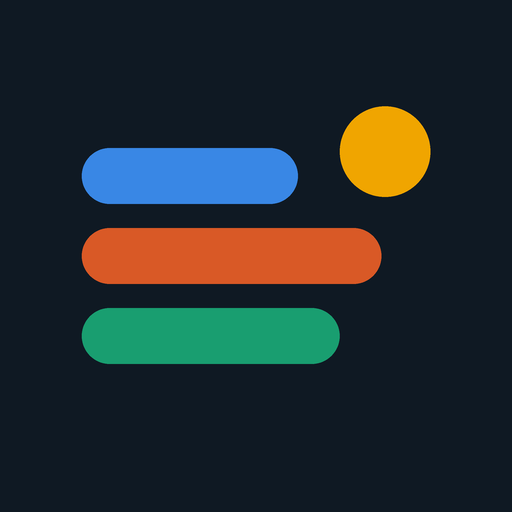
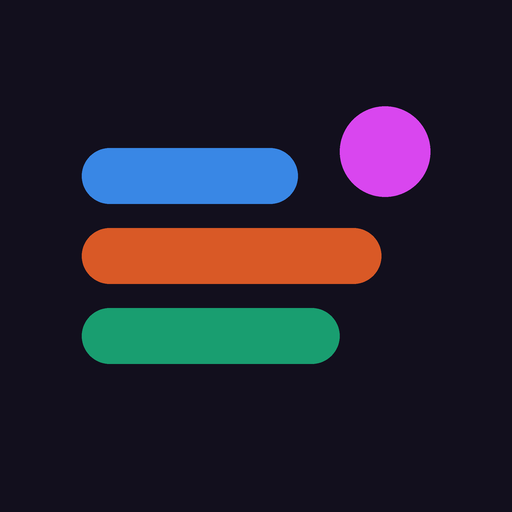
Rename to My Triathlon and switch to a violet / fuchsia theme
New background, accent colors, fonts and app icons so it no longer looks like Voyager.
Sport colors unchanged (re-checked for color-blind safety on the new background).

Claude-Session: https://claude.ai/code/session_01VnQkoeRu5t3mpL7ouk737S

Changed region(s): [[0.6562, 0.1875, 0.8438, 0.4062]]

diff --git a/index.html b/index.html
@@ -3,23 +3,23 @@
 <head>
 <meta charset="UTF-8">
 <meta name="viewport" content="width=device-width, initial-scale=1.0, maximum-scale=1.0, user-scalable=no">
-<title>Tri Expenses</title>
-<link href="https://fonts.googleapis.com/css2?family=Syne:wght@700;800&family=DM+Sans:wght@400;500;700&display=swap" rel="stylesheet">
+<title>My Triathlon</title>
+<link href="https://fonts.googleapis.com/css2?family=Space+Grotesk:wght@600;700&family=Manrope:wght@400;500;700;800&display=swap" rel="stylesheet">
 <link rel="manifest" href="manifest.json">
 <link rel="apple-touch-icon" href="icons/apple-touch-icon.png">
-<meta name="theme-color" content="#0f1923">
+<meta name="theme-color" content="#120f1d">
 <meta name="mobile-web-app-capable" content="yes">
 <meta name="apple-mobile-web-app-capable" content="yes">
 <meta name="apple-mobile-web-app-status-bar-style" content="black-translucent">
-<meta name="apple-mobile-web-app-title" content="Tri Expenses">
+<meta name="apple-mobile-web-app-title" content="My Triathlon">
 <style>
 *{box-sizing:border-box;margin:0;padding:0;-webkit-tap-highlight-color:transparent;touch-action:manipulation}
 :root{
-  --bg:#0f1923;--surf:#1a2535;--surf2:#243044;
-  --accent:#f0a500;--accent2:#e05c2a;
-  --text:#eef2f7;--muted:#7a8fa6;--soft:#a9b6c6;--border:rgba(255,255,255,0.08);
+  --bg:#120f1d;--surf:#1d1830;--surf2:#2a2342;
+  --accent:#d946ef;--accent2:#7c3aed;--acc-ink:#f0abfc;
+  --text:#f3f0fa;--muted:#8e86a8;--soft:#b9b2cc;--border:rgba(255,255,255,0.08);
   --green:#2dd4a0;--red:#f05252;--r:14px;
-  --fh:'Syne',sans-serif;--fb:'DM Sans',sans-serif;
+  --fh:'Space Grotesk',sans-serif;--fb:'Manrope',sans-serif;
   /* sport colors - validated together on the dark surface (CVD-safe); always shown with icon + label */
   --swim:#3987e5;--bike:#d95926;--run:#199e70;--general:#9aa3b0;
   --seq:#3987e5;
@@ -32,7 +32,7 @@ button,input,select,textarea{font-family:var(--fb);color:var(--text)}
 /* top bar */
 .topbar{position:relative;z-index:50;background:var(--bg);padding:14px 16px 0;border-bottom:1px solid var(--border)}
 .topbar-row1{display:flex;align-items:center;gap:10px;margin-bottom:12px}
-.logo{font-family:var(--fh);font-size:26px;font-weight:800;background:linear-gradient(135deg,var(--accent),var(--accent2));-webkit-background-clip:text;background-clip:text;-webkit-text-fill-color:transparent;letter-spacing:-0.5px}
+.logo{font-family:var(--fh);font-size:26px;font-weight:700;background:linear-gradient(135deg,var(--accent),var(--accent2));-webkit-background-clip:text;background-clip:text;-webkit-text-fill-color:transparent;letter-spacing:-0.5px}
 .logo-icon{font-size:22px}
 .logo-sub{margin-left:auto;font-size:11px;color:var(--muted);text-align:right}
 .topbar-btns{display:flex;gap:6px;padding-bottom:12px}
@@ -48,7 +48,7 @@ button,input,select,textarea{font-family:var(--fb);color:var(--text)}
 .chips{display:flex;gap:6px;overflow-x:auto;scrollbar-width:none;padding-bottom:1px}
 .chips::-webkit-scrollbar{display:none}
 .chip{flex-shrink:0;background:var(--surf);border:1px solid var(--border);border-radius:20px;padding:6px 12px;font-size:12px;font-weight:500;cursor:pointer;white-space:nowrap;display:flex;align-items:center;gap:5px}
-.chip.on{background:rgba(240,165,0,0.15);border-color:rgba(240,165,0,0.55);color:#ffd27a}
+.chip.on{background:rgba(217,70,239,0.15);border-color:rgba(217,70,239,0.55);color:var(--acc-ink)}
 .chip .dot{width:8px;height:8px;border-radius:50%}
 .flabel{font-size:10px;letter-spacing:.12em;text-transform:uppercase;color:var(--muted);align-self:center;flex-shrink:0;width:38px}
 .frow{display:flex;gap:6px;align-items:center}
@@ -82,7 +82,7 @@ button,input,select,textarea{font-family:var(--fb);color:var(--text)}
 .ramt{text-align:right;flex-shrink:0}
 .ramt .big{font-family:var(--fh);font-weight:700;font-size:15px;font-variant-numeric:tabular-nums}
 .ramt .small{font-size:10px;color:var(--muted);margin-top:2px}
-.badge{display:inline-block;padding:1px 7px;border-radius:10px;background:rgba(240,165,0,0.14);color:#ffd27a;font-size:10px;font-weight:700;margin-right:4px}
+.badge{display:inline-block;padding:1px 7px;border-radius:10px;background:rgba(217,70,239,0.14);color:var(--acc-ink);font-size:10px;font-weight:700;margin-right:4px}
 .badge.ended{background:rgba(255,255,255,0.07);color:var(--muted)}
 
 .empty{text-align:center;padding:50px 20px;color:var(--muted)}
@@ -101,7 +101,7 @@ button,input,select,textarea{font-family:var(--fb);color:var(--text)}
 .kpi .k{font-size:10px;letter-spacing:.12em;text-transform:uppercase;color:var(--muted)}
 .kpi .v{font-family:var(--fh);font-weight:800;font-size:23px;margin-top:6px;font-variant-numeric:tabular-nums;white-space:nowrap;overflow:hidden;text-overflow:ellipsis}
 .kpi .s{font-size:11px;color:var(--soft);margin-top:3px;white-space:nowrap;overflow:hidden;text-overflow:ellipsis}
-.kpi.hero{grid-column:1/-1;background:linear-gradient(135deg,rgba(240,165,0,0.14),rgba(224,92,42,0.08) 60%,var(--surf));border-color:rgba(240,165,0,0.3)}
+.kpi.hero{grid-column:1/-1;background:linear-gradient(135deg,rgba(217,70,239,0.14),rgba(124,58,237,0.10) 60%,var(--surf));border-color:rgba(217,70,239,0.3)}
 .kpi.hero .v{font-size:34px}
 .card{background:var(--surf);border:1px solid var(--border);border-radius:var(--r);padding:14px;margin-bottom:14px}
 .card-h{display:flex;align-items:center;gap:8px;cursor:pointer;user-select:none}
@@ -129,7 +129,7 @@ button,input,select,textarea{font-family:var(--fb);color:var(--text)}
 .tbl th:first-child,.tbl td:first-child{text-align:left}
 .tbl th{color:var(--muted);font-weight:500;font-size:11px}
 .tbl tr.tot td{font-weight:700;color:var(--text);border-bottom:0}
-.tip{position:absolute;pointer-events:none;background:#0b131c;border:1px solid rgba(255,255,255,0.14);border-radius:10px;padding:8px 10px;font-size:12px;min-width:150px;z-index:5;box-shadow:0 8px 24px rgba(0,0,0,.4);display:none}
+.tip{position:absolute;pointer-events:none;background:#0c0a14;border:1px solid rgba(255,255,255,0.14);border-radius:10px;padding:8px 10px;font-size:12px;min-width:150px;z-index:5;box-shadow:0 8px 24px rgba(0,0,0,.4);display:none}
 .tip b{font-family:var(--fh)}
 .tip .tr{display:flex;justify-content:space-between;gap:12px;margin-top:3px;color:var(--soft)}
 .tip .tr span:last-child{color:var(--text);font-variant-numeric:tabular-nums}
@@ -148,14 +148,14 @@ button,input,select,textarea{font-family:var(--fb);color:var(--text)}
 .two{display:grid;grid-template-columns:1fr 1fr;gap:10px}
 .seg{display:flex;gap:6px}
 .seg button{flex:1;background:var(--surf2);border:1px solid var(--border);border-radius:10px;padding:10px 4px;font-size:13px;font-weight:500;cursor:pointer}
-.seg button.on{background:rgba(240,165,0,0.15);border-color:rgba(240,165,0,0.6);color:#ffd27a;font-weight:700}
+.seg button.on{background:rgba(217,70,239,0.15);border-color:rgba(217,70,239,0.6);color:var(--acc-ink);font-weight:700}
 .seg.sport button{display:flex;flex-direction:column;align-items:center;gap:3px;font-size:11px}
 .seg.sport button .e{font-size:20px}
 .actions{display:flex;gap:10px;margin-top:18px}
 .actions .sp{flex:1}
-.toast{position:fixed;left:50%;bottom:28px;transform:translateX(-50%) translateY(20px);background:#0b131c;border:1px solid rgba(240,165,0,0.4);color:var(--text);padding:11px 18px;border-radius:12px;font-size:13px;opacity:0;transition:all .25s;z-index:3000;pointer-events:none;max-width:90vw;text-align:center}
+.toast{position:fixed;left:50%;bottom:28px;transform:translateX(-50%) translateY(20px);background:#0c0a14;border:1px solid rgba(217,70,239,0.4);color:var(--text);padding:11px 18px;border-radius:12px;font-size:13px;opacity:0;transition:all .25s;z-index:3000;pointer-events:none;max-width:90vw;text-align:center}
 .toast.on{opacity:1;transform:translateX(-50%) translateY(0)}
-.banner{display:flex;gap:10px;align-items:center;background:rgba(240,165,0,0.1);border:1px solid rgba(240,165,0,0.35);border-radius:12px;padding:10px 12px;margin-bottom:12px;font-size:12px}
+.banner{display:flex;gap:10px;align-items:center;background:rgba(217,70,239,0.1);border:1px solid rgba(217,70,239,0.35);border-radius:12px;padding:10px 12px;margin-bottom:12px;font-size:12px}
 .banner span{flex:1;line-height:1.4}
 .setrow{display:flex;align-items:center;gap:10px;padding:12px 0;border-bottom:1px solid var(--border);font-size:14px}
 .setrow:last-child{border-bottom:0}
@@ -169,7 +169,7 @@ button,input,select,textarea{font-family:var(--fb);color:var(--text)}
  <div class="wrap">
   <div class="topbar-row1">
     <span class="logo-icon">🏊🚴🏃</span>
-    <div class="logo">Tri Expenses</div>
+    <div class="logo">My Triathlon</div>
     <div class="logo-sub" id="HDR_SUB"></div>
   </div>
   <div class="topbar-btns">

diff --git a/sw.js b/sw.js
@@ -1,7 +1,7 @@
 /* Lets the app be installed and open without internet.
    The page is always fetched fresh when online (so updates show right away);
    the saved copy is used only when offline. */
-var CACHE = 'triexpenses-v2'; // change this number every time you publish an update
+var CACHE = 'mytriathlon-v3'; // change this number every time you publish an update
 var BASE = self.registration.scope; // e.g. https://ronen1m.github.io/MyTriathlon-/
 var PAGE = BASE + 'index.html';
 var FILES = [BASE, PAGE, BASE + 'manifest.json', BASE + 'icons/icon-192.png'];

diff --git a/README.md b/README.md
@@ -1,4 +1,4 @@
-# Tri Expenses
+# My Triathlon
 
 Track how much the triathlon hobby costs — swim, bike, run and general.
 
